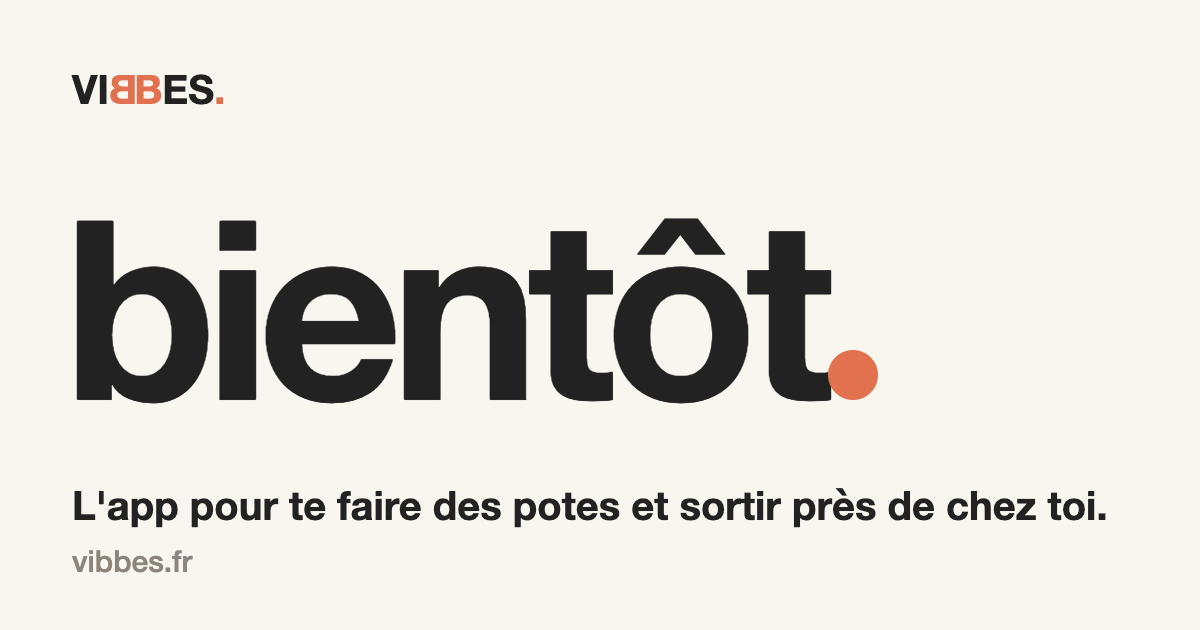
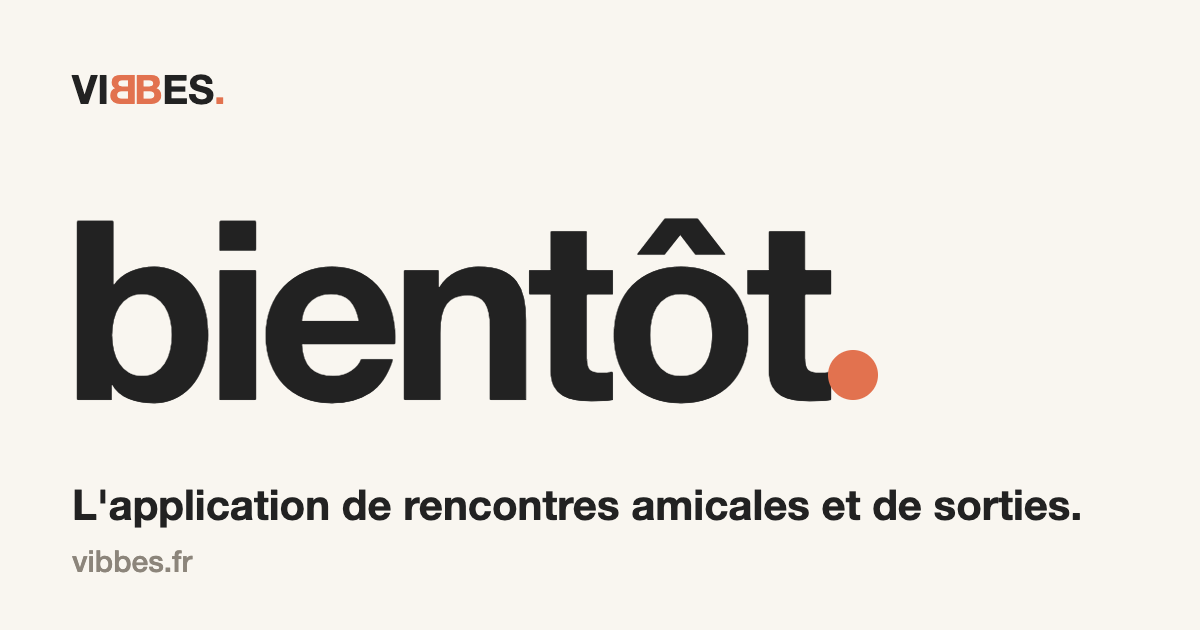
Textes plus pro, lancement France et international, 1 000 premiers inscrits

Changed region(s): [[0.0617, 0.7841, 0.925, 0.8444]]

diff --git a/index.html b/index.html
@@ -3,8 +3,8 @@
 <head>
 <meta charset="utf-8">
 <meta name="viewport" content="width=device-width, initial-scale=1">
-<title>Vibbes · L'app pour se faire des amis et sortir sur la Côte d'Azur</title>
-<meta name="description" content="Vibbes, l'application pour se faire de nouveaux amis et sortir près de chez toi : soirées, événements et bons plans sur la Côte d'Azur et dans le Var. Inscris-toi pour être prévenu du lancement.">
+<title>Vibbes · Application de rencontres amicales et de sorties</title>
+<meta name="description" content="Vibbes, l'application de rencontres amicales et de sorties : rencontre des personnes qui partagent tes envies, rejoins des soirées et des événements près de chez toi. Lancement en France, inscris-toi à la liste d'attente.">
 <link rel="canonical" href="https://vibbes.fr/">
 <meta name="robots" content="index, follow, max-image-preview:large">
 <meta name="author" content="Vibbes">
@@ -17,14 +17,14 @@
 <meta property="og:locale" content="fr_FR">
 <meta property="og:url" content="https://vibbes.fr/">
 <meta property="og:title" content="Vibbes arrive bientôt">
-<meta property="og:description" content="L'app pour te faire des potes et sortir près de chez toi. Laisse ton e-mail, on te prévient au lancement.">
+<meta property="og:description" content="L'application de rencontres amicales et de sorties. Inscris-toi à la liste d'attente pour vivre le lancement en avant-première.">
 <meta property="og:image" content="https://vibbes.fr/og.png">
 <meta property="og:image:width" content="1200">
 <meta property="og:image:height" content="630">
-<meta property="og:image:alt" content="Vibbes, bientôt. L'app pour te faire des potes et sortir près de chez toi.">
+<meta property="og:image:alt" content="Vibbes, bientôt. L'application de rencontres amicales et de sorties.">
 <meta name="twitter:card" content="summary_large_image">
 <meta name="twitter:title" content="Vibbes arrive bientôt">
-<meta name="twitter:description" content="L'app pour te faire des potes et sortir près de chez toi.">
+<meta name="twitter:description" content="L'application de rencontres amicales et de sorties.">
 <meta name="twitter:image" content="https://vibbes.fr/og.png">
 <script type="application/ld+json">
 {"@context":"https://schema.org","@graph":[
@@ -119,14 +119,14 @@ footer a:hover,footer a:focus-visible{color:var(--encre)}
 <body>
 <header>
   <a class="logo" href="/" aria-label="Vibbes">VI<span class="o miroir">B</span><span class="o">B</span>ES<span class="o">.</span></a>
-  <span class="lieu">Côte d'Azur</span>
+  <span class="lieu">Bientôt en France</span>
 </header>
 
 <main>
   <h1 class="big" aria-label="Bientôt">bientôt<span>.</span></h1>
 
   <div class="bas">
-    <p class="pitch">L'app pour te faire des potes et sortir près de chez toi.</p>
+    <p class="pitch">L'application de rencontres amicales et de sorties.</p>
 
     <form id="f" novalidate>
       <div class="ligne">
@@ -135,20 +135,20 @@ footer a:hover,footer a:focus-visible{color:var(--encre)}
         <label class="sr" for="ville">Ta ville</label>
         <input id="ville" name="ville" type="text" autocomplete="address-level2" placeholder="Ta ville" maxlength="80">
         <div class="piege" aria-hidden="true"><label for="site">Ne pas remplir</label><input id="site" name="site" type="text" tabindex="-1" autocomplete="off"></div>
-        <button id="b" type="submit">Préviens-moi</button>
+        <button id="b" type="submit">Rejoindre la liste</button>
       </div>
       <p class="msg" id="m" role="status" aria-live="polite"></p>
-      <p class="note">On t'écrit au lancement, c'est tout. Ton e-mail n'est ni vendu ni partagé, et tu peux le faire supprimer quand tu veux. <a href="/confidentialite.html">Confidentialité</a></p>
+      <p class="note">Nous t'écrirons uniquement pour le lancement. Ton e-mail n'est ni vendu ni partagé, et tu peux demander sa suppression à tout moment. <a href="/confidentialite.html">Confidentialité</a></p>
     </form>
   </div>
 </main>
 
 <section class="apropos" aria-labelledby="apropos-titre">
-  <h2 id="apropos-titre">Se faire des amis, pour de vrai.</h2>
+  <h2 id="apropos-titre">Une nouvelle façon de créer des liens.</h2>
   <div class="texte">
-    <p>Vibbes est une application pour les 18 ans et plus qui veulent rencontrer de nouvelles personnes en amitié et sortir plus souvent&nbsp;: soirées, sorties à plusieurs et événements près de chez soi.</p>
-    <p>On commence par la Côte d'Azur et le Var, autour de Hyères, Toulon et Nice, avant d'arriver dans d'autres villes de France.</p>
-    <p>Tu viens d'emménager, tes potes ont déménagé, ou tu as simplement envie d'agrandir ton cercle&nbsp;? Laisse ton e-mail plus haut&nbsp;: on te prévient dès que l'app est disponible.</p>
+    <p>Vibbes est l'application qui facilite les rencontres amicales entre adultes. Découvre des personnes qui partagent tes envies, rejoins des soirées et des événements près de chez toi, et élargis ton cercle en toute simplicité.</p>
+    <p>Lancement prochain partout en France, avant un déploiement à l'international.</p>
+    <p>Les 1&nbsp;000 premiers inscrits vivront le lancement en avant-première. Inscris-toi à la liste d'attente pour en faire partie.</p>
   </div>
 </section>
 

diff --git a/app.js b/app.js
@@ -8,13 +8,13 @@
   try { source = (new URLSearchParams(location.search).get('src') || '').replace(/[^a-zA-Z0-9_-]/g,'').slice(0,40); } catch(_){}
 
   function dire(txt, ok){ m.textContent = txt; m.className = 'msg ' + (ok ? 'ok' : 'err'); }
-  var OK = 'C’est noté. On te prévient dès que Vibbes est dispo.';
+  var OK = 'Inscription confirmée. Tu seras informé·e du lancement en avant-première.';
 
   f.addEventListener('submit', function(ev){
     ev.preventDefault();
     // Robots : champ piège rempli ou formulaire envoyé en moins de 2 secondes
     if ((piege && piege.value) || Date.now() - ouvertLe < 2000) { dire(OK, true); f.reset(); return; }
-    if (envois >= 5) { dire('Tu as déjà envoyé plusieurs inscriptions. Recharge la page pour réessayer.', false); return; }
+    if (envois >= 5) { dire('Trop de tentatives. Recharge la page pour réessayer.', false); return; }
     var email = e.value.trim();
     if (!/^[^@\s]+@[^@\s]+\.[^@\s]+$/.test(email) || email.length > 254) { dire('Cet e-mail ne semble pas valide. Vérifie-le et réessaie.', false); e.focus(); return; }
     envois++;
@@ -25,11 +25,11 @@
       body: JSON.stringify({ email: email, ville: v.value.trim().slice(0,80) || null, source: source || null })
     }).then(function(r){
       if (r.ok) { dire(OK, true); f.reset(); }
-      else if (r.status === 409) { dire('Tu es déjà sur la liste. On te prévient au lancement.', true); }
-      else if (r.status === 400) { dire('Beaucoup de monde en même temps. Réessaie dans une minute.', false); }
-      else { dire('L’inscription n’a pas marché. Réessaie dans un instant.', false); }
+      else if (r.status === 409) { dire('Tu es déjà inscrit·e. Tu seras informé·e du lancement en avant-première.', true); }
+      else if (r.status === 400) { dire('Le service est très sollicité. Réessaie dans une minute.', false); }
+      else { dire('L’inscription a échoué. Réessaie dans un instant.', false); }
     }).catch(function(){
       dire('Pas de connexion. Vérifie ton réseau et réessaie.', false);
-    }).then(function(){ b.disabled = false; b.textContent = 'Préviens-moi'; });
+    }).then(function(){ b.disabled = false; b.textContent = 'Rejoindre la liste'; });
   });
 })();
